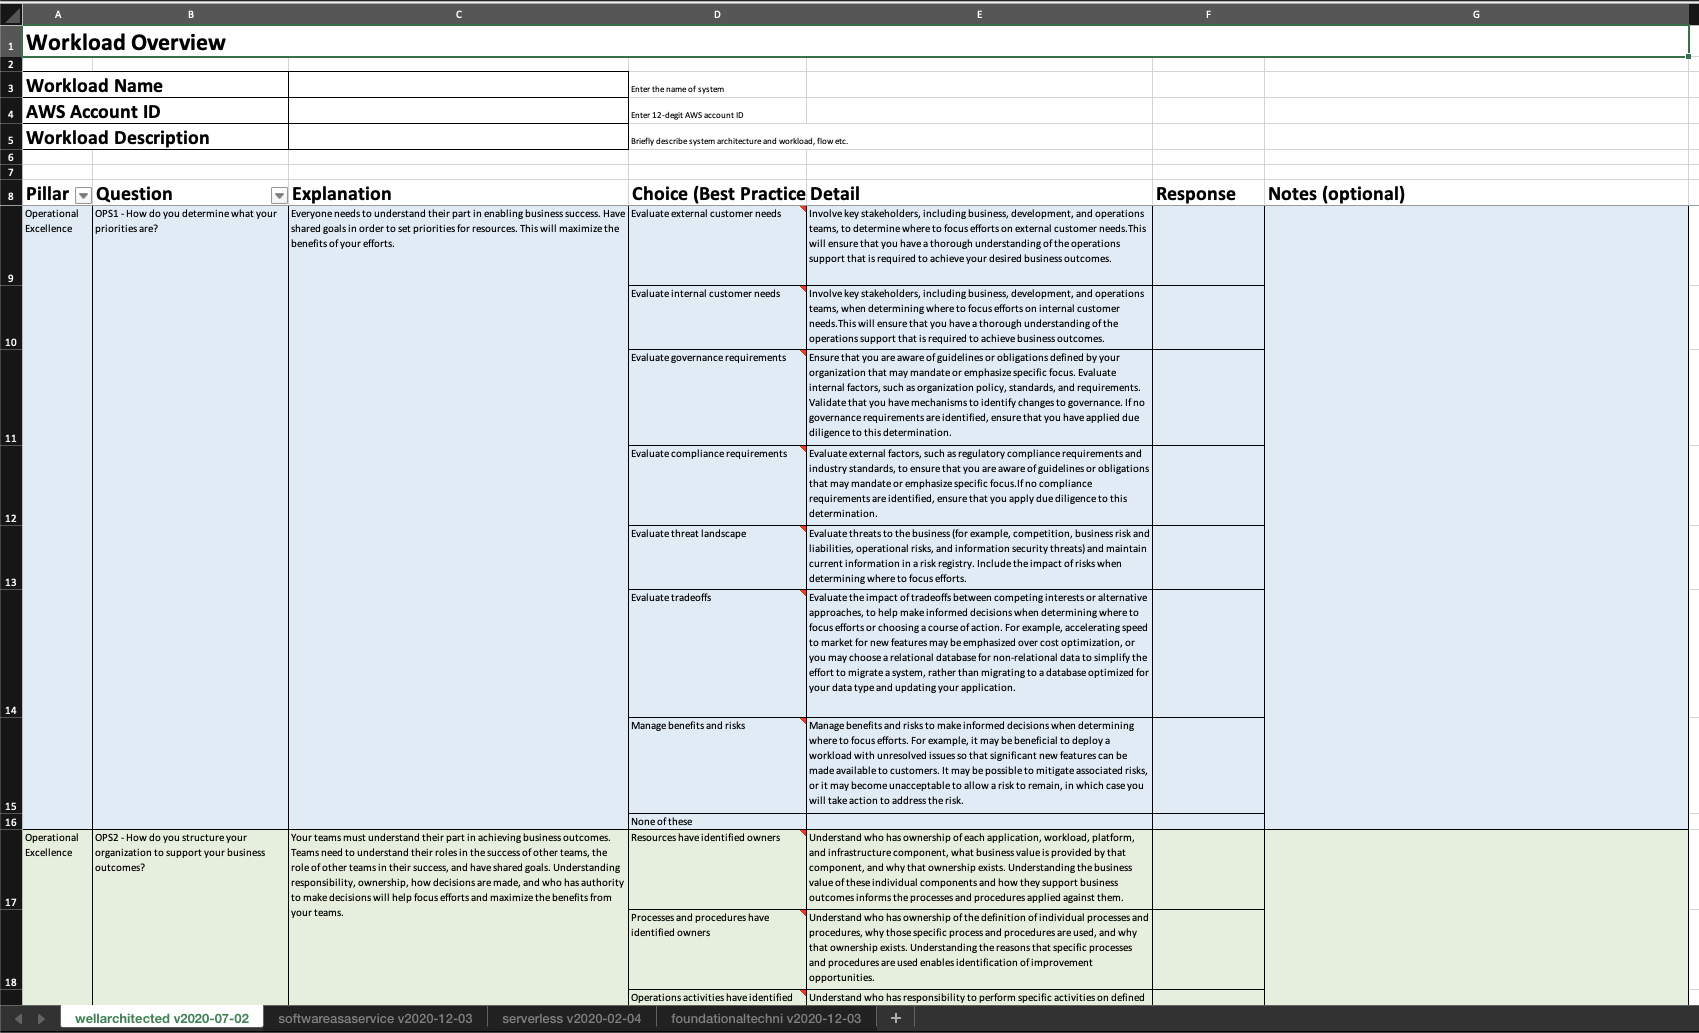
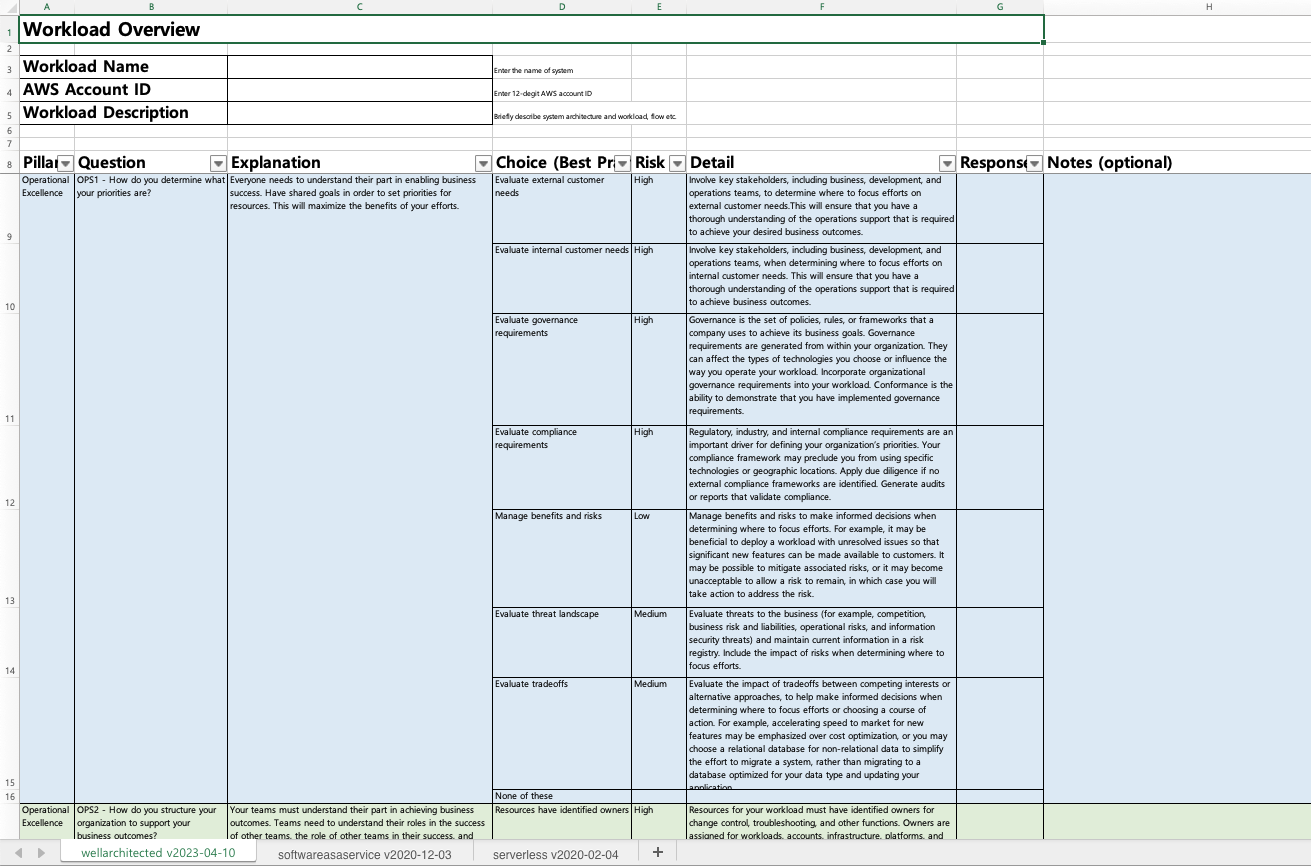
Insert column to display best practice risk 	Modified python code to retrieve the risk level of best 	practices 	Modifoed docs to show xlsx image containing the risk column

Changed region(s): [[0.0, 0.0, 1.0, 1.0]]

diff --git a/static/watool/utilities/Code/exportAnswersToXLSX.py b/static/watool/utilities/Code/exportAnswersToXLSX.py
@@ -23,6 +23,7 @@ import argparse
 from pkg_resources import packaging
 import urllib.request
 from bs4 import BeautifulSoup, NavigableString, Tag
+from lxml import etree
 
 
 __author__    = "Eric Pullen"
@@ -334,7 +335,7 @@ def updateAnswersForQuestion(
     answers = jmespath.search(jmesquery, response)
     return answers
 
-def getImprovementPlanItems(
+def getBestPractices(
     waclient,
     workloadId,
     lensAlias,
@@ -344,65 +345,49 @@ def getImprovementPlanItems(
     ChoiceList
 ):
     # This will parse the IP Items to gather the links we need
-    response = {}
-    htmlString = ""
     urlresponse = urllib.request.urlopen(ImprovementPlanUrl)
     htmlBytes = urlresponse.read()
     htmlStr = htmlBytes.decode("utf8")
     htmlSplit = htmlStr.split('\n')
-    ipHTMLList = {}
+    bpList = {}
     for line in htmlSplit:
         for uq in ChoiceList:
             if uq in line:
-                parsed = BeautifulSoup(line,features="html.parser")
-                ipHTMLList.update({uq: str(parsed.a['href'])})
-    return ipHTMLList
+                parsed = BeautifulSoup(line, features="html.parser")
+                bpUrl = str(parsed.a['href'])
+                bpRisk = getBestPracticeRiskLevel(bpUrl, PillarId)
+                bpList.update({ uq: {
+                            'BestPracticeUrl': bpUrl, 
+                            'BestPracticeRisk': bpRisk
+                        }})
+    return bpList
 
-def getImprovementPlanHTMLDescription(
-    ImprovementPlanUrl,
+def getBestPracticeRiskLevel(
+    BestPracticeUrl,
     PillarId
     ):
 
-    logger.debug("ImprovementPlanUrl: %s for pillar %s " % (ImprovementPlanUrl,PILLAR_PARSE_MAP[PillarId]))
-    stepRaw = ImprovementPlanUrl.rsplit('#')[1]
-
-    # Grab the number of the step we are referencing
-    # This will work as long as their are less than 99 steps.
-    if len(stepRaw) <= 5:
-        stepNumber = stepRaw[-1]
-    else:
-        stepNumber = stepRaw[-2]
-
-    #Generate the string for the step number
-    firstItem = "step"+stepNumber
-    secondItem = ("step"+str((int(stepNumber)+1)))
-    logger.debug ("Going from %s to %s" % (firstItem, secondItem))
-    urlresponse = urllib.request.urlopen(ImprovementPlanUrl)
+    # Get the level of risk exposed if this best practice is not established
+    urlresponse = urllib.request.urlopen(BestPracticeUrl)
     htmlBytes = urlresponse.read()
     htmlStr = htmlBytes.decode("utf8")
-    htmlSplit = htmlStr.split('\n')
+    parsed = BeautifulSoup(htmlStr, features="html.parser")
+    domtree = etree.HTML(str(parsed))
+    levelOfRiskBold = domtree.xpath("//p/b[contains(text(), 'established')]")
+    bpRisk = ""
+    if len(levelOfRiskBold) > 0:
+        levelOfRisk = levelOfRiskBold[0].tail
+        if "High" in levelOfRisk:
+            bpRisk = "High"
+        elif "Medium" in levelOfRisk:
+            bpRisk = "Medium"
+        elif "Low" in levelOfRisk:
+            bpRisk = "Low"
 
-    foundit = 0
-    ipString = ""
-    questionIdText = ""
-    for i in htmlSplit:
-        if PILLAR_PARSE_MAP[PillarId] in i:
-            bsparse = BeautifulSoup(i,features="html.parser")
-            questionIdText = str(bsparse.text).split(':')[0].strip()
-        if (secondItem in i) or ("</div>" in i):
-            foundit = 0
-        if firstItem in i:
-            foundit = 1
-            ipString+=i
-        elif foundit:
-            ipString+=i
+    if bpRisk == "":
+        logger.debug("Failed to resolve the risk from %s - Pillar: %s" % (BestPracticeUrl, PILLAR_PARSE_MAP[PillarId]))
 
-    prettyHTML = BeautifulSoup(ipString,features="html.parser")
-    # Need to remove all of the "local glossary links" since they point to relative paths
-    for a in prettyHTML.findAll('a', 'glossref'):
-        a.replaceWithChildren()
-
-    return prettyHTML, questionIdText
+    return bpRisk
 
 def lensTabCreation(
     WACLIENT,
@@ -515,13 +500,14 @@ def lensTabCreation(
     worksheet.set_paper(1)
 
     # Set the column widths
-    worksheet.set_column('A:A', 11)
-    worksheet.set_column('B:B', 32)
-    worksheet.set_column('C:C', 56)
-    worksheet.set_column('D:D', 29)
-    worksheet.set_column('E:E', 57)
-    worksheet.set_column('F:F', 18)
-    worksheet.set_column('G:G', 70)
+    worksheet.set_column('A:A', 11) # pillar
+    worksheet.set_column('B:B', 32) # question
+    worksheet.set_column('C:C', 56) # question explanation
+    worksheet.set_column('D:D', 29) # choice (best practice)
+    worksheet.set_column('E:E', 11) # risk
+    worksheet.set_column('F:F', 57) # choice detail
+    worksheet.set_column('G:G', 18) # response
+    worksheet.set_column('H:H', 70) # notes
 
     # Top of sheet
     worksheet.merge_range('A1:G1', 'Workload Overview', heading)
@@ -549,15 +535,16 @@ def lensTabCreation(
     worksheet.write('B8', 'Question', sub_heading)
     worksheet.write('C8', 'Explanation', sub_heading)
     worksheet.write('D8', 'Choice (Best Practice)', sub_heading)
-    worksheet.write('E8', 'Detail', sub_heading)
-    worksheet.write('F8', 'Response', sub_heading)
-    worksheet.write('G8', 'Notes (optional)', sub_heading)
+    worksheet.write('E8', 'Risk', sub_heading)
+    worksheet.write('F8', 'Detail', sub_heading)
+    worksheet.write('G8', 'Response', sub_heading)
+    worksheet.write('H8', 'Notes (optional)', sub_heading)
 
     # Freeze the top of the sheet
     worksheet.freeze_panes(8,0)
 
-    # AutoFilter on the first two columns
-    worksheet.autofilter('A8:B8')
+    # AutoFilter on the first seven columns
+    worksheet.autofilter('A8:G8')
 
     # Make it easier to print
     worksheet.repeat_rows(1, 8)
@@ -572,6 +559,7 @@ def lensTabCreation(
     myCellnoborder = lineAnoborder
 
     for pillar in PILLAR_PARSE_MAP:
+        logger.info("Working on %s pillar" % pillar)
         # This is the question number for each pillar (ex: OPS1, OPS2, etc)
         qNum = 1
 
@@ -598,9 +586,9 @@ def lensTabCreation(
             if qImprovementPlanUrl:
                 jmesquery = "[?QuestionId=='"+answers['QuestionId']+"'].Choices[].ChoiceId"
                 choiceList = jmespath.search(jmesquery, allQuestionsForLens)
-                ipList = getImprovementPlanItems(WACLIENT,workloadId,lens,answers['QuestionId'],answers['PillarId'],qImprovementPlanUrl,choiceList)
+                bpList = getBestPractices(WACLIENT,workloadId,lens,answers['QuestionId'],answers['PillarId'],qImprovementPlanUrl,choiceList)
             else:
-                ipList = []
+                bpList = []
 
             startingCellID=cellID
             # If its the first time through this particular pillar question:
@@ -626,19 +614,20 @@ def lensTabCreation(
                 # Start writing each of the BP's, details, etc
                 cell = 'D'+str(cellID)
                 Title = choices['Title'].replace('  ','').replace('\t', '').replace('\n', '')
-                if any(choices['ChoiceId'] in d for d in ipList):
-                    worksheet.write_url(cell, ipList[choices['ChoiceId']], myCell, string=Title)
-                    #ipItemHTML, questionIdText = getImprovementPlanHTMLDescription(ipList[choices['ChoiceId']],answers['PillarId'])
-                    #htmlString = ipItemHTML.text
-                    htmlString = "" 
-                    htmlString = htmlString.replace('\n         ','').replace('  ','').replace('\t', '').strip().rstrip()
-                    # print(htmlString)
-                    worksheet.write_comment(cell, htmlString, {'author': 'Improvement Plan'})
+                if any(choices['ChoiceId'] in d for d in bpList):
+                    bpUrl = bpList[choices['ChoiceId']]['BestPracticeUrl']
+                    bpRisk = bpList[choices['ChoiceId']]['BestPracticeRisk']
+
+                    worksheet.write_url(cell, bpUrl, myCell, string=Title)
+                    cell = 'E'+str(cellID)
+                    worksheet.write(cell, bpRisk, myCell)
                 else:
-                    worksheet.write(cell,Title,myCell)
+                    worksheet.write(cell, Title, myCell)
+                    cell = 'E'+str(cellID)
+                    worksheet.write(cell, "", myCell)
 
                 # Add all Details for each best practice/choice
-                cell = 'E'+str(cellID)
+                cell = 'F'+str(cellID)
                 # Remove all of the extra spaces in the description field
                 Description = choices['Description'].replace('\n               ','')
                 Description = Description.replace('\n         ','')
@@ -649,7 +638,7 @@ def lensTabCreation(
 
                 # If this is an existing workload, we will show SELECTED if the have it checked
                 # I would love to use a XLSX checkbox, but this library doesn't support it
-                cell = 'F'+str(cellID)
+                cell = 'G'+str(cellID)
                 responseText = ""
                 if choices['ChoiceId'] in answers['SelectedChoices']:
                     responseText = "SELECTED"
@@ -665,7 +654,7 @@ def lensTabCreation(
             worksheet.merge_range(cellMerge, qDescription,myCell)
 
             # Notes field
-            cellMerge = 'G'+str(startingCellID)+':G'+str(cellID-1)
+            cellMerge = 'H'+str(startingCellID)+':H'+str(cellID-1)
             if WORKLOADID:
                 worksheet.merge_range(cellMerge, qNotes, myCell)
             else:
@@ -746,6 +735,7 @@ def main():
 
     # Iterate over each lens that we either have added or is in the workload
     for lens in LENSES:
+        logger.info("Working on %s lens" % lens)
         # Grab all questions for a particular lens
         allQuestions = findAllQuestionId(WACLIENT,workloadId,lens)
         if WORKLOADID:

diff --git a/content/Well-ArchitectedTool/Helpful_Resources/Export_To_XLSX/1_configure_env.md b/content/Well-ArchitectedTool/Helpful_Resources/Export_To_XLSX/1_configure_env.md
@@ -35,7 +35,9 @@ pip3 install boto3 --upgrade --user
 You may need to install the following modules for this script to run:
 1. [BeautifulSoup4](https://pypi.org/project/beautifulsoup4/)
     * pip install beautifulsoup4
-1. [xlsxwriter](https://github.com/jmcnamara/XlsxWriter)
+2. [xlsxwriter](https://github.com/jmcnamara/XlsxWriter)
     * pip install XlsxWriter
+3. [lxml](https://pypi.org/project/lxml/)
+    * pip install lxml
 
 {{< prev_next_button link_prev_url="../" link_next_url="../2_python_code/" />}}
